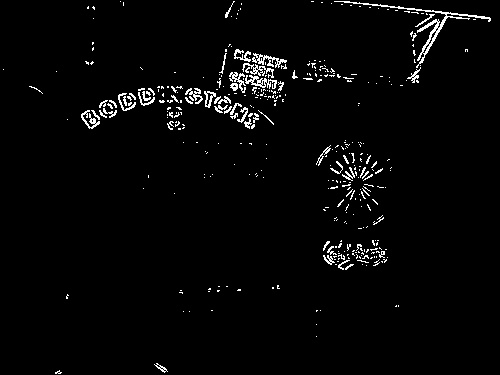
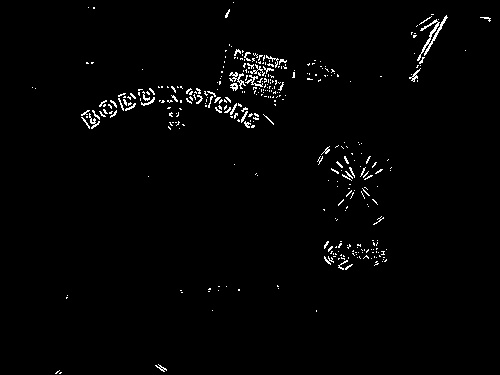
Images for report

diff --git a/Subtask3/dart.cpp b/Subtask3/dart.cpp
@@ -59,7 +59,9 @@ int main( int argc, const char** argv ) {
 	string outputname = filename.substr(10, filename.size() - 14);
 	//imwrite( "Detected/"+outputname+".jpg", output );
 
-	imwrite( "Detected/"+outputname+".jpg", detected );
+	imwrite( "Detected/"+ outputname + ".jpg", detected );
+	imwrite("Hough/" + outputname + ".jpg", houghSpace );
+	imwrite("Lines/" + outputname + ".jpg", gradMag );
 
 	return 0;
 }
@@ -200,7 +202,7 @@ Mat generateLineHoughSpace(Mat gradMag, Mat gradDir) {
 
 	int width = gradMag.size().width;
 	int height = gradMag.size().height;
-	Mat houghSpace(2*(height+width), 180, CV_32SC1, Scalar(0));
+	Mat houghSpace(2*(height+width), 360, CV_32SC1, Scalar(0));
 	Mat output;
 	double pi = 3.1415926535897;
 
